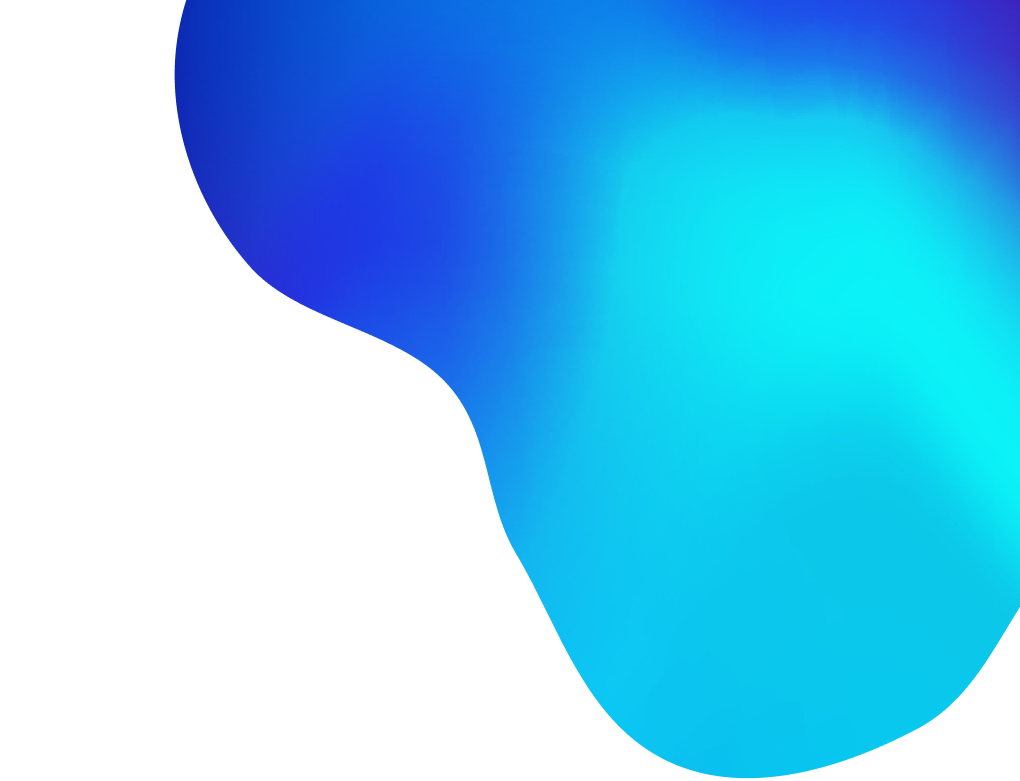
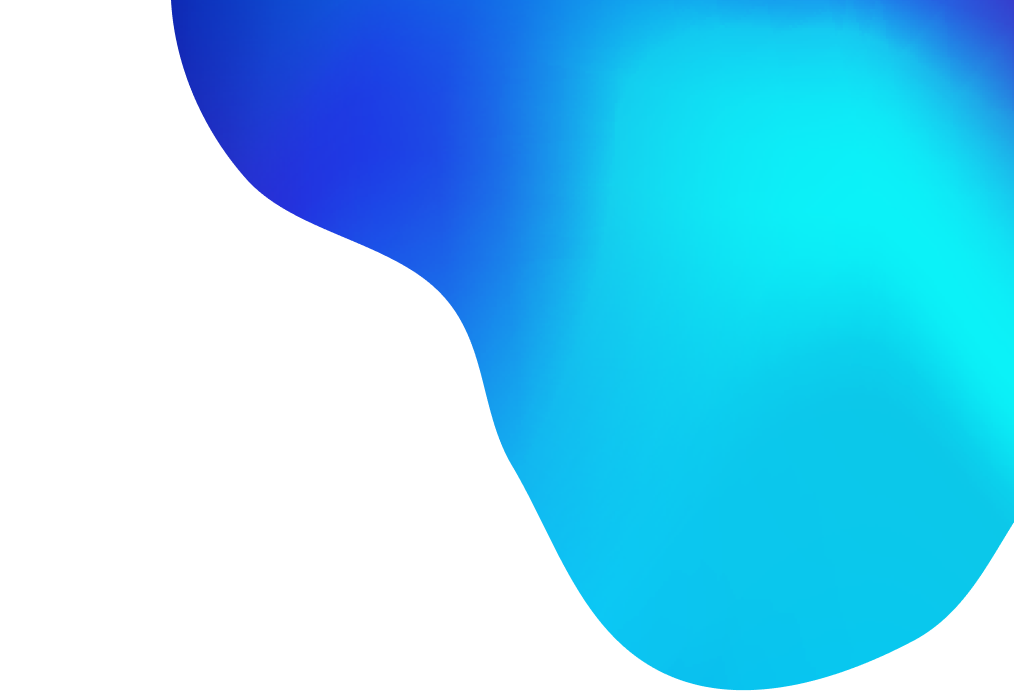
- ui fixes

diff --git a/src/components/pages/Home.js b/src/components/pages/Home.js
@@ -21,6 +21,7 @@ import dg14 from '../../imgs/14.png';
 import dg15 from '../../imgs/15.png';
 import dg16 from '../../imgs/16.png';
 import { isMobile } from 'react-device-detect';
+import desktop from '../../imgs/desktop.png';
 
 const innerHeight = window.innerHeight;
 
@@ -34,6 +35,7 @@ export const Home = () => {
   const githubContext = useContext(GithubContext);
   const [memberInfo, setMemberInfo] = useState('');
   const [videoInfo, setVideoInfo] = useState('');
+  const [comingSoonModal, setComingSoonModal] = useState(false);
   const [dgImageSrc, setDgImageSrc] = useState(dg1);
   const [nextClick, setNextClick] = useState(false);
   const {
@@ -97,6 +99,7 @@ export const Home = () => {
   const closeModalOnClickOutside = () => {
     const memberInfoModal = document.getElementById('memberInfoModal');
     const videoInfoModal = document.getElementById('videoInfoModal');
+    const comingSoonModal = document.getElementById('comingSoonModal');
     window.onclick = function (event) {
       if (event.target === memberInfoModal) {
         setMemberInfo('');
@@ -104,6 +107,10 @@ export const Home = () => {
 
       if (event.target === videoInfoModal) {
         setVideoInfo('');
+      }
+
+      if (event.target === comingSoonModal) {
+        setComingSoonModal(false);
       }
     };
   };
@@ -115,23 +122,28 @@ export const Home = () => {
   };
 
   const keySocialMap = {
-    instagram: 'instagram',
-    behance: 'behance',
-    facebook: 'facebook',
-    youtube: 'youtube',
-    twitter: 'twitter',
-    spotify: 'spotify',
-    soundcloud: 'soundcloud',
-    tiktok: 'youtube',
-    youtubesecond: 'youtube',
+    instagram: 'fab fa-instagram',
+    behance: 'fab fa-behance',
+    facebook: 'fab fa-facebook',
+    youtube: 'fab fa-youtube',
+    twitter: 'fab fa-twitter',
+    spotify: 'fab fa-spotify',
+    soundcloud: 'fab fa-soundcloud',
+    tiktok: 'fab fa-youtube',
+    youtubesecond: 'fab fa-youtube',
+    id: 'fas fa-globe',
+    personalweb: 'fas fa-globe',
   };
+
 
   const animateTimeline = () => {
     const winScroll =
       document.body.scrollTop || document.documentElement.scrollTop;
 
     let scrolled = winScroll;
-    if (scrolled > 2000 && scrolled < 3010) {
+    let scrolledCondition = scrolled > 2000 && scrolled < 3010;
+    if (isMobile) scrolledCondition = scrolled > 3000 && scrolled < 5010;
+    if (scrolledCondition) {
       if (scrolled > 3000) scrolled = scrolled - 3000;
       else scrolled = scrolled - 2000;
       scrolled = (scrolled / 10) * 1.5;
@@ -212,7 +224,7 @@ export const Home = () => {
                             key={key}
                             onClick={() => window.open(value)}
                           >
-                            <i className={`fab fa-${keySocialMap[key]}`}></i>
+                            <i className={`${keySocialMap[key]}`}></i>
                           </span>
                         ) : null;
                       }
@@ -252,6 +264,29 @@ export const Home = () => {
           </div>
           <div className="modal-body p-2">
             <video className="metaMoversVideo" src={videoInfo} controls></video>
+          </div>
+        </div>
+      </div>
+
+      <div
+        id="comingSoonModal"
+        className={`modal ${comingSoonModal ? 'd-block' : 'd-none'}`}
+      >
+        <div className={`modal-content w-75`}>
+          <div className="modal-header">
+            <span
+              onClick={() => setComingSoonModal(false)}
+              className="close text-dark"
+            >
+              &times;
+            </span>
+          </div>
+          <div className="modal-body p-2 text-center">
+            <img src={desktop} alt="desktop" height="150px" className="mb-2" />
+
+            <h5 className="font-weight-bold">
+              Please access website on desktop for buying metamovers.
+            </h5>
           </div>
         </div>
       </div>
@@ -394,6 +429,7 @@ export const Home = () => {
                     <a
                       class={`carousel-control-prev 
                       ${videoInfo ? 'invisible' : ' '}
+                      ${comingSoonModal ? 'd-none' : ' '}
                       ${isMobile ? '' : 'carousel-control-prev-home'}`}
                       href="#metaMoversCoursel"
                       role="button"
@@ -408,6 +444,7 @@ export const Home = () => {
                     <a
                       class={`carousel-control-next 
                       ${videoInfo ? 'invisible' : ' '}
+                      ${comingSoonModal ? 'd-none' : ' '}
                       ${isMobile ? '' : 'carousel-control-next-home'}`}
                       href="#metaMoversCoursel"
                       role="button"
@@ -423,12 +460,21 @@ export const Home = () => {
                   </div>
                 </div>
                 <div className="col-md-12 mt-5 mb-3 text-center">
-                  <Link
-                    to="/comingSoon"
-                    className={`navbarBtn shadow-sm btn-lg`}
-                  >
-                    Buy Now
-                  </Link>
+                  {isMobile ? (
+                    <span
+                      onClick={() => setComingSoonModal(true)}
+                      className={`navbarBtn shadow-sm btn-lg`}
+                    >
+                      Buy Now
+                    </span>
+                  ) : (
+                    <Link
+                      to="/comingSoon"
+                      className={`navbarBtn shadow-sm btn-lg`}
+                    >
+                      Buy Now
+                    </Link>
+                  )}
                 </div>
               </div>
             </div>
@@ -515,7 +561,7 @@ export const Home = () => {
                           key={key}
                           onClick={() => window.open(value)}
                         >
-                          {<i className={`fab fa-${keySocialMap[key]}`}></i>}
+                          {<i className={`${keySocialMap[key]}`}></i>}
                         </span>
                       ) : null;
                     })}

diff --git a/src/components/layout/Footer.js b/src/components/layout/Footer.js
@@ -2,6 +2,7 @@
 import React, { useContext } from 'react';
 import GithubContext from '../../context/metamovers/context';
 // import logo from '../../imgs/Metamovers.png';
+import { isMobile } from 'react-device-detect';
 
 const Footer = ({ logo, social = [] }) => {
   const githubContext = useContext(GithubContext);
@@ -11,6 +12,19 @@ const Footer = ({ logo, social = [] }) => {
   };
 
   const updatedSocial = social[0] || {};
+  const keySocialMap = {
+    instagram: 'fab fa-instagram',
+    behance: 'fab fa-behance',
+    facebook: 'fab fa-facebook',
+    youtube: 'fab fa-youtube',
+    twitter: 'fab fa-twitter',
+    spotify: 'fab fa-spotify',
+    soundcloud: 'fab fa-soundcloud',
+    tiktok: 'fab fa-youtube',
+    youtubesecond: 'fab fa-youtube',
+    id: 'fas fa-globe',
+    personalweb: 'fas fa-globe',
+  };
 
   return (
     <div className="row footer themeBgClr text-white">
@@ -18,38 +32,49 @@ const Footer = ({ logo, social = [] }) => {
         <div className="row d-flex justify-content-center align-items-center">
           <img src={logo} alt="metamovers" height="50px" />
         </div>
-        <div className="row d-flex justify-content-center align-items-center">
-          <span
-            className="navlinks"
-            onClick={() => scrollToSection('aboutSection')}
+        {isMobile ? null : (
+          <div
+            className={`row d-flex justify-content-center align-items-center`}
           >
-            About
-          </span>
-          <span
-            className="navlinks"
-            onClick={() => scrollToSection('metamoversSection')}
+            <span
+              className="navlinks"
+              onClick={() => scrollToSection('aboutSection')}
+            >
+              About
+            </span>
+            <span
+              className="navlinks"
+              onClick={() => scrollToSection('metamoversSection')}
+            >
+              Metamovers
+            </span>
+            <span
+              className="navlinks"
+              onClick={() => scrollToSection('roadMapSection')}
+            >
+              Roadmap
+            </span>
+            <span
+              className="navlinks"
+              onClick={() => scrollToSection('theTeamSection')}
+            >
+              The Team
+            </span>
+          </div>
+        )}
+
+        <hr className={`border ${isMobile ? 'd-none' : ''}`} />
+        <div className="d-flex justify-content-between align-items-center row">
+          <div
+            className={`col-md-6 col-xs-12 ${isMobile ? 'text-center' : ''}`}
           >
-            Metamovers
-          </span>
-          <span
-            className="navlinks"
-            onClick={() => scrollToSection('roadMapSection')}
-          >
-            Roadmap
-          </span>
-          <span
-            className="navlinks"
-            onClick={() => scrollToSection('theTeamSection')}
-          >
-            The Team
-          </span>
-        </div>
-        <hr className="border" />
-        <div className="d-flex justify-content-between align-items-center">
-          <div className="col-md-6 col-xs-12">
             Copyright © 2021 Metamovers. All right reserved.
           </div>
-          <div className="col-md-6 col-xs-12 text-right">
+          <div
+            className={`col-md-6 col-xs-12 ${
+              isMobile ? 'text-center' : 'text-right'
+            }`}
+          >
             {Object.entries(updatedSocial).map(([key, value]) => (
               <a
                 className={`btn btn-floating  m-1 text-white ${
@@ -58,7 +83,7 @@ const Footer = ({ logo, social = [] }) => {
                 href={value || '#!'}
                 role="button"
               >
-                <i className={`fab fa-${key}`}></i>
+                <i className={`${keySocialMap[key]}`}></i>
               </a>
             ))}
           </div>

diff --git a/src/index.css b/src/index.css
@@ -83,7 +83,7 @@ body {
 
 .homeCoverImg {
   background-image: url('./imgs/homeback.png');
-  background-position: bottom right;
+  background-position: top right;
   background-repeat: no-repeat;
   margin-top: -160px;
   padding-top: 90px;
@@ -91,7 +91,7 @@ body {
 
 .mHomeCoverImg {
   background-image: url('./imgs/homeback.png');
-  background-position: right;
+  background-position: top right;
   background-repeat: no-repeat;
   margin-top: -160px;
   padding-top: 150px;
